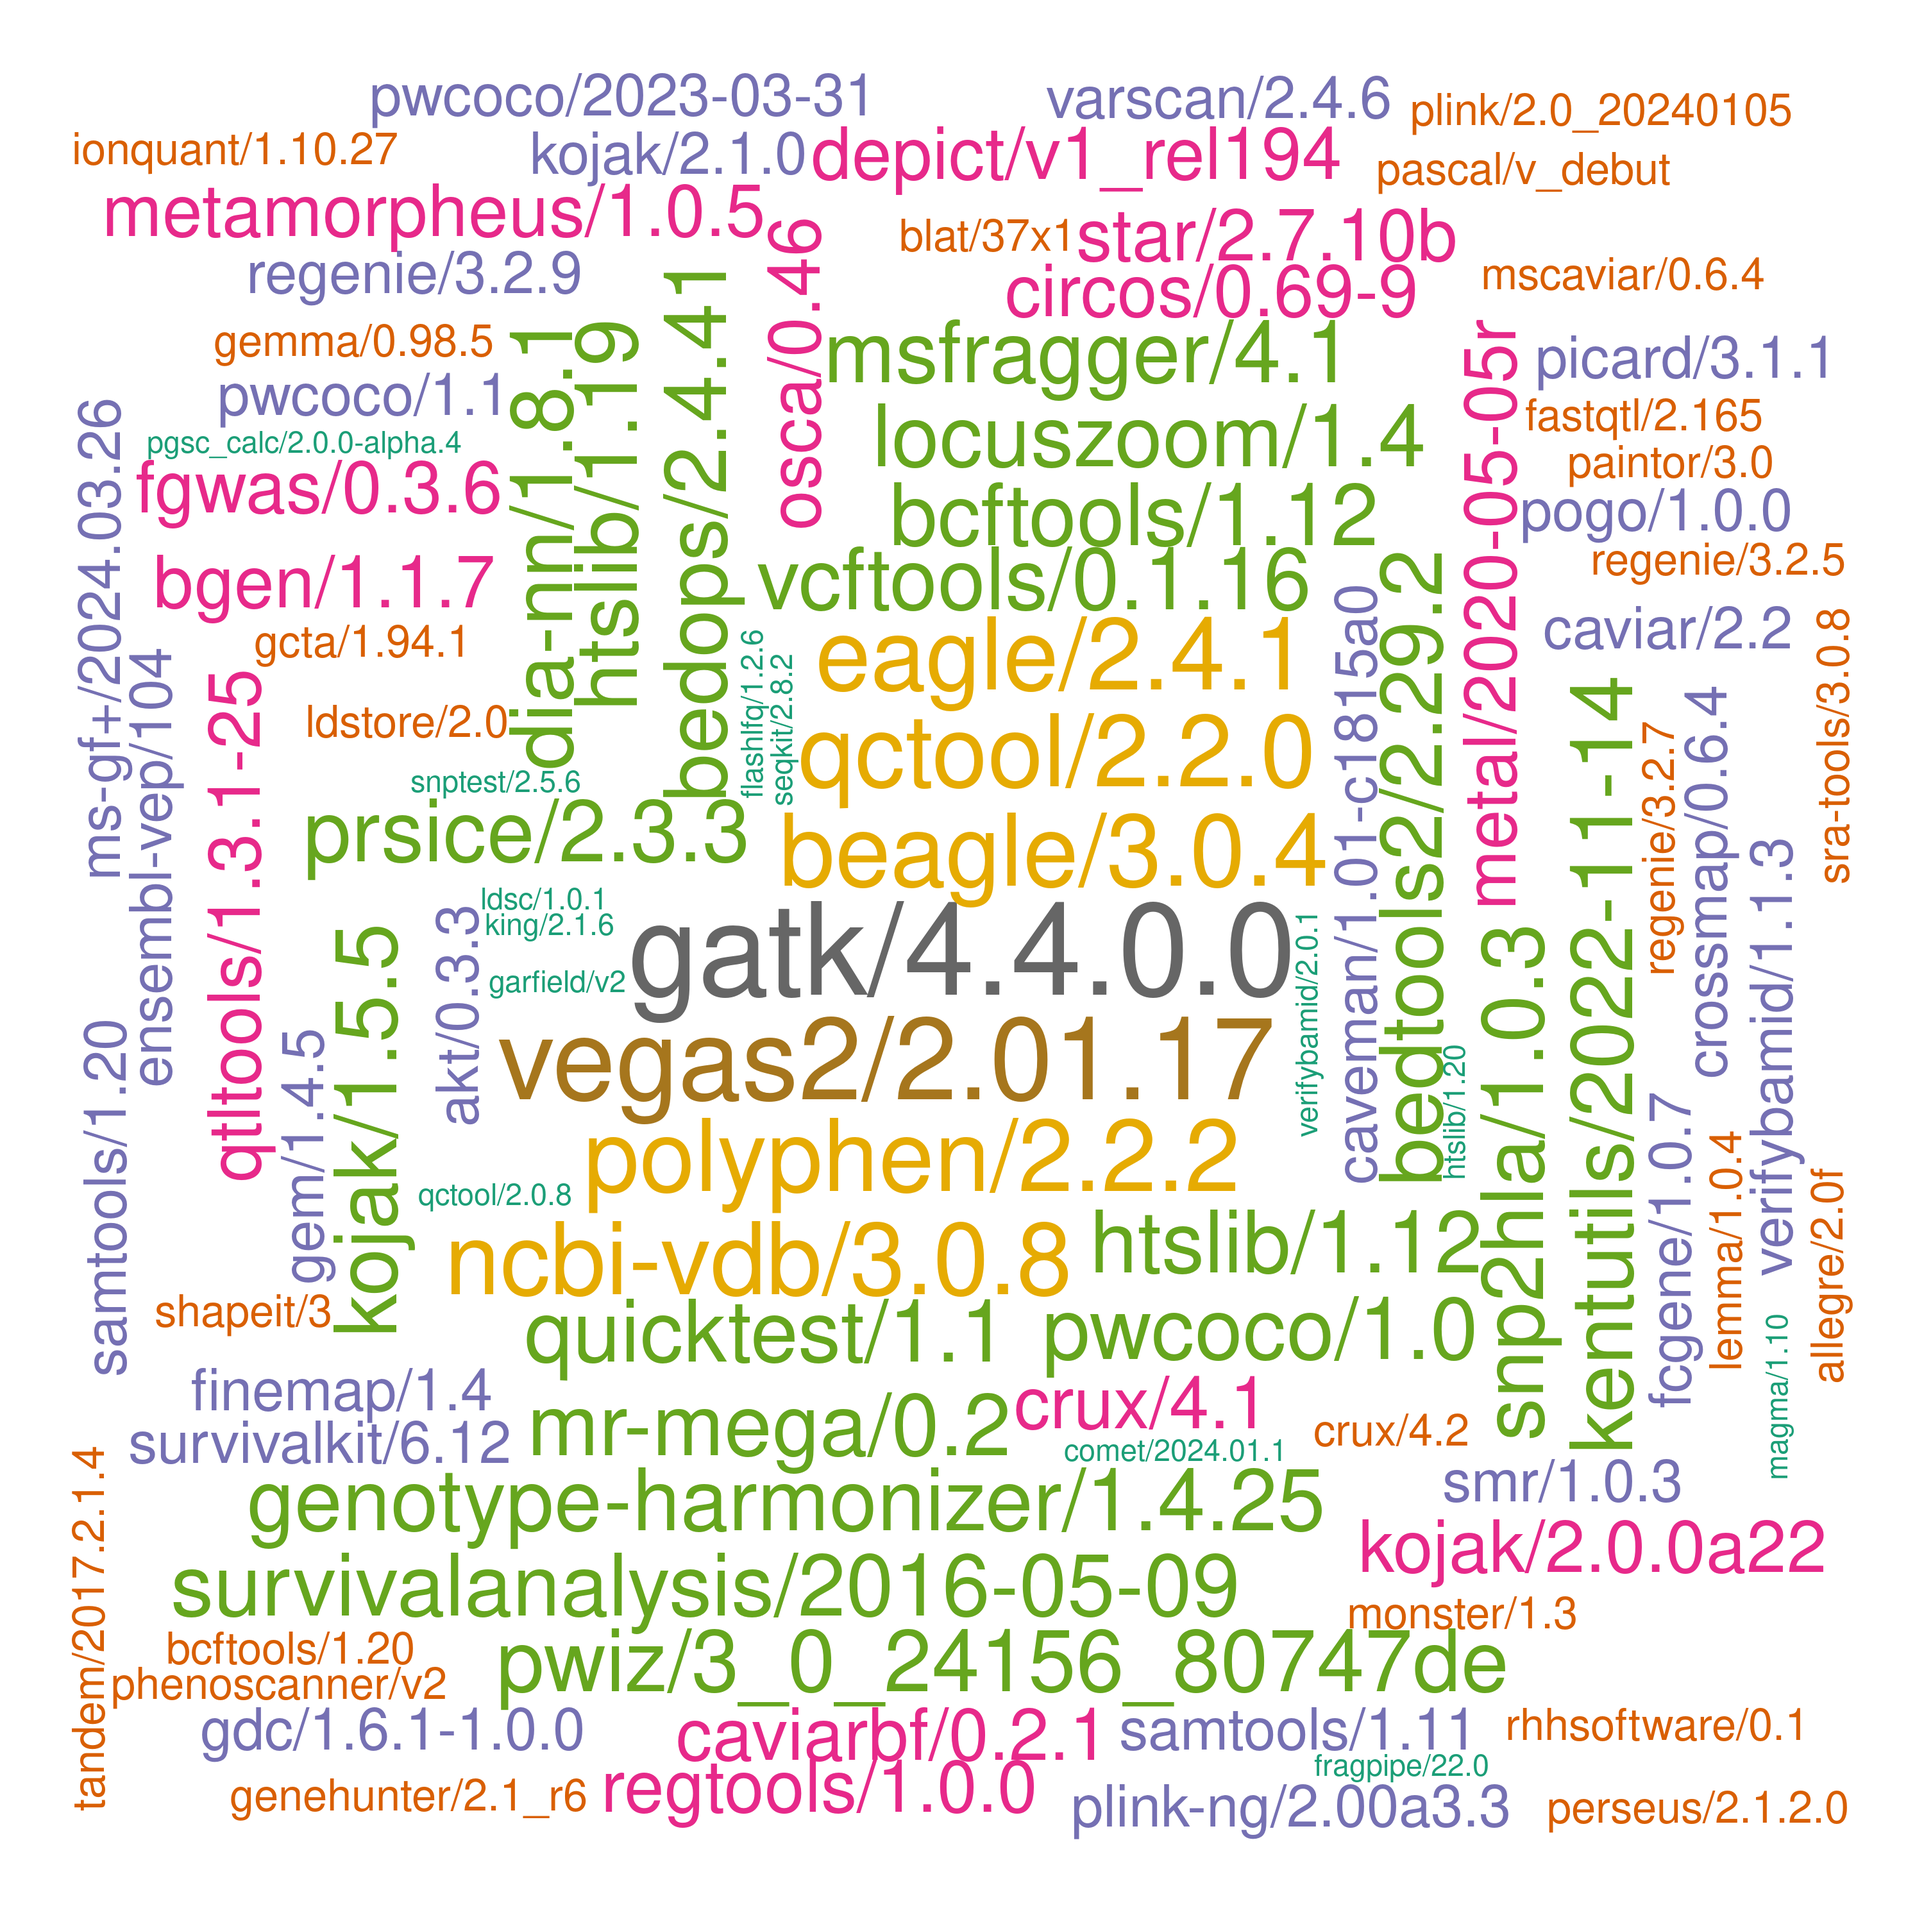
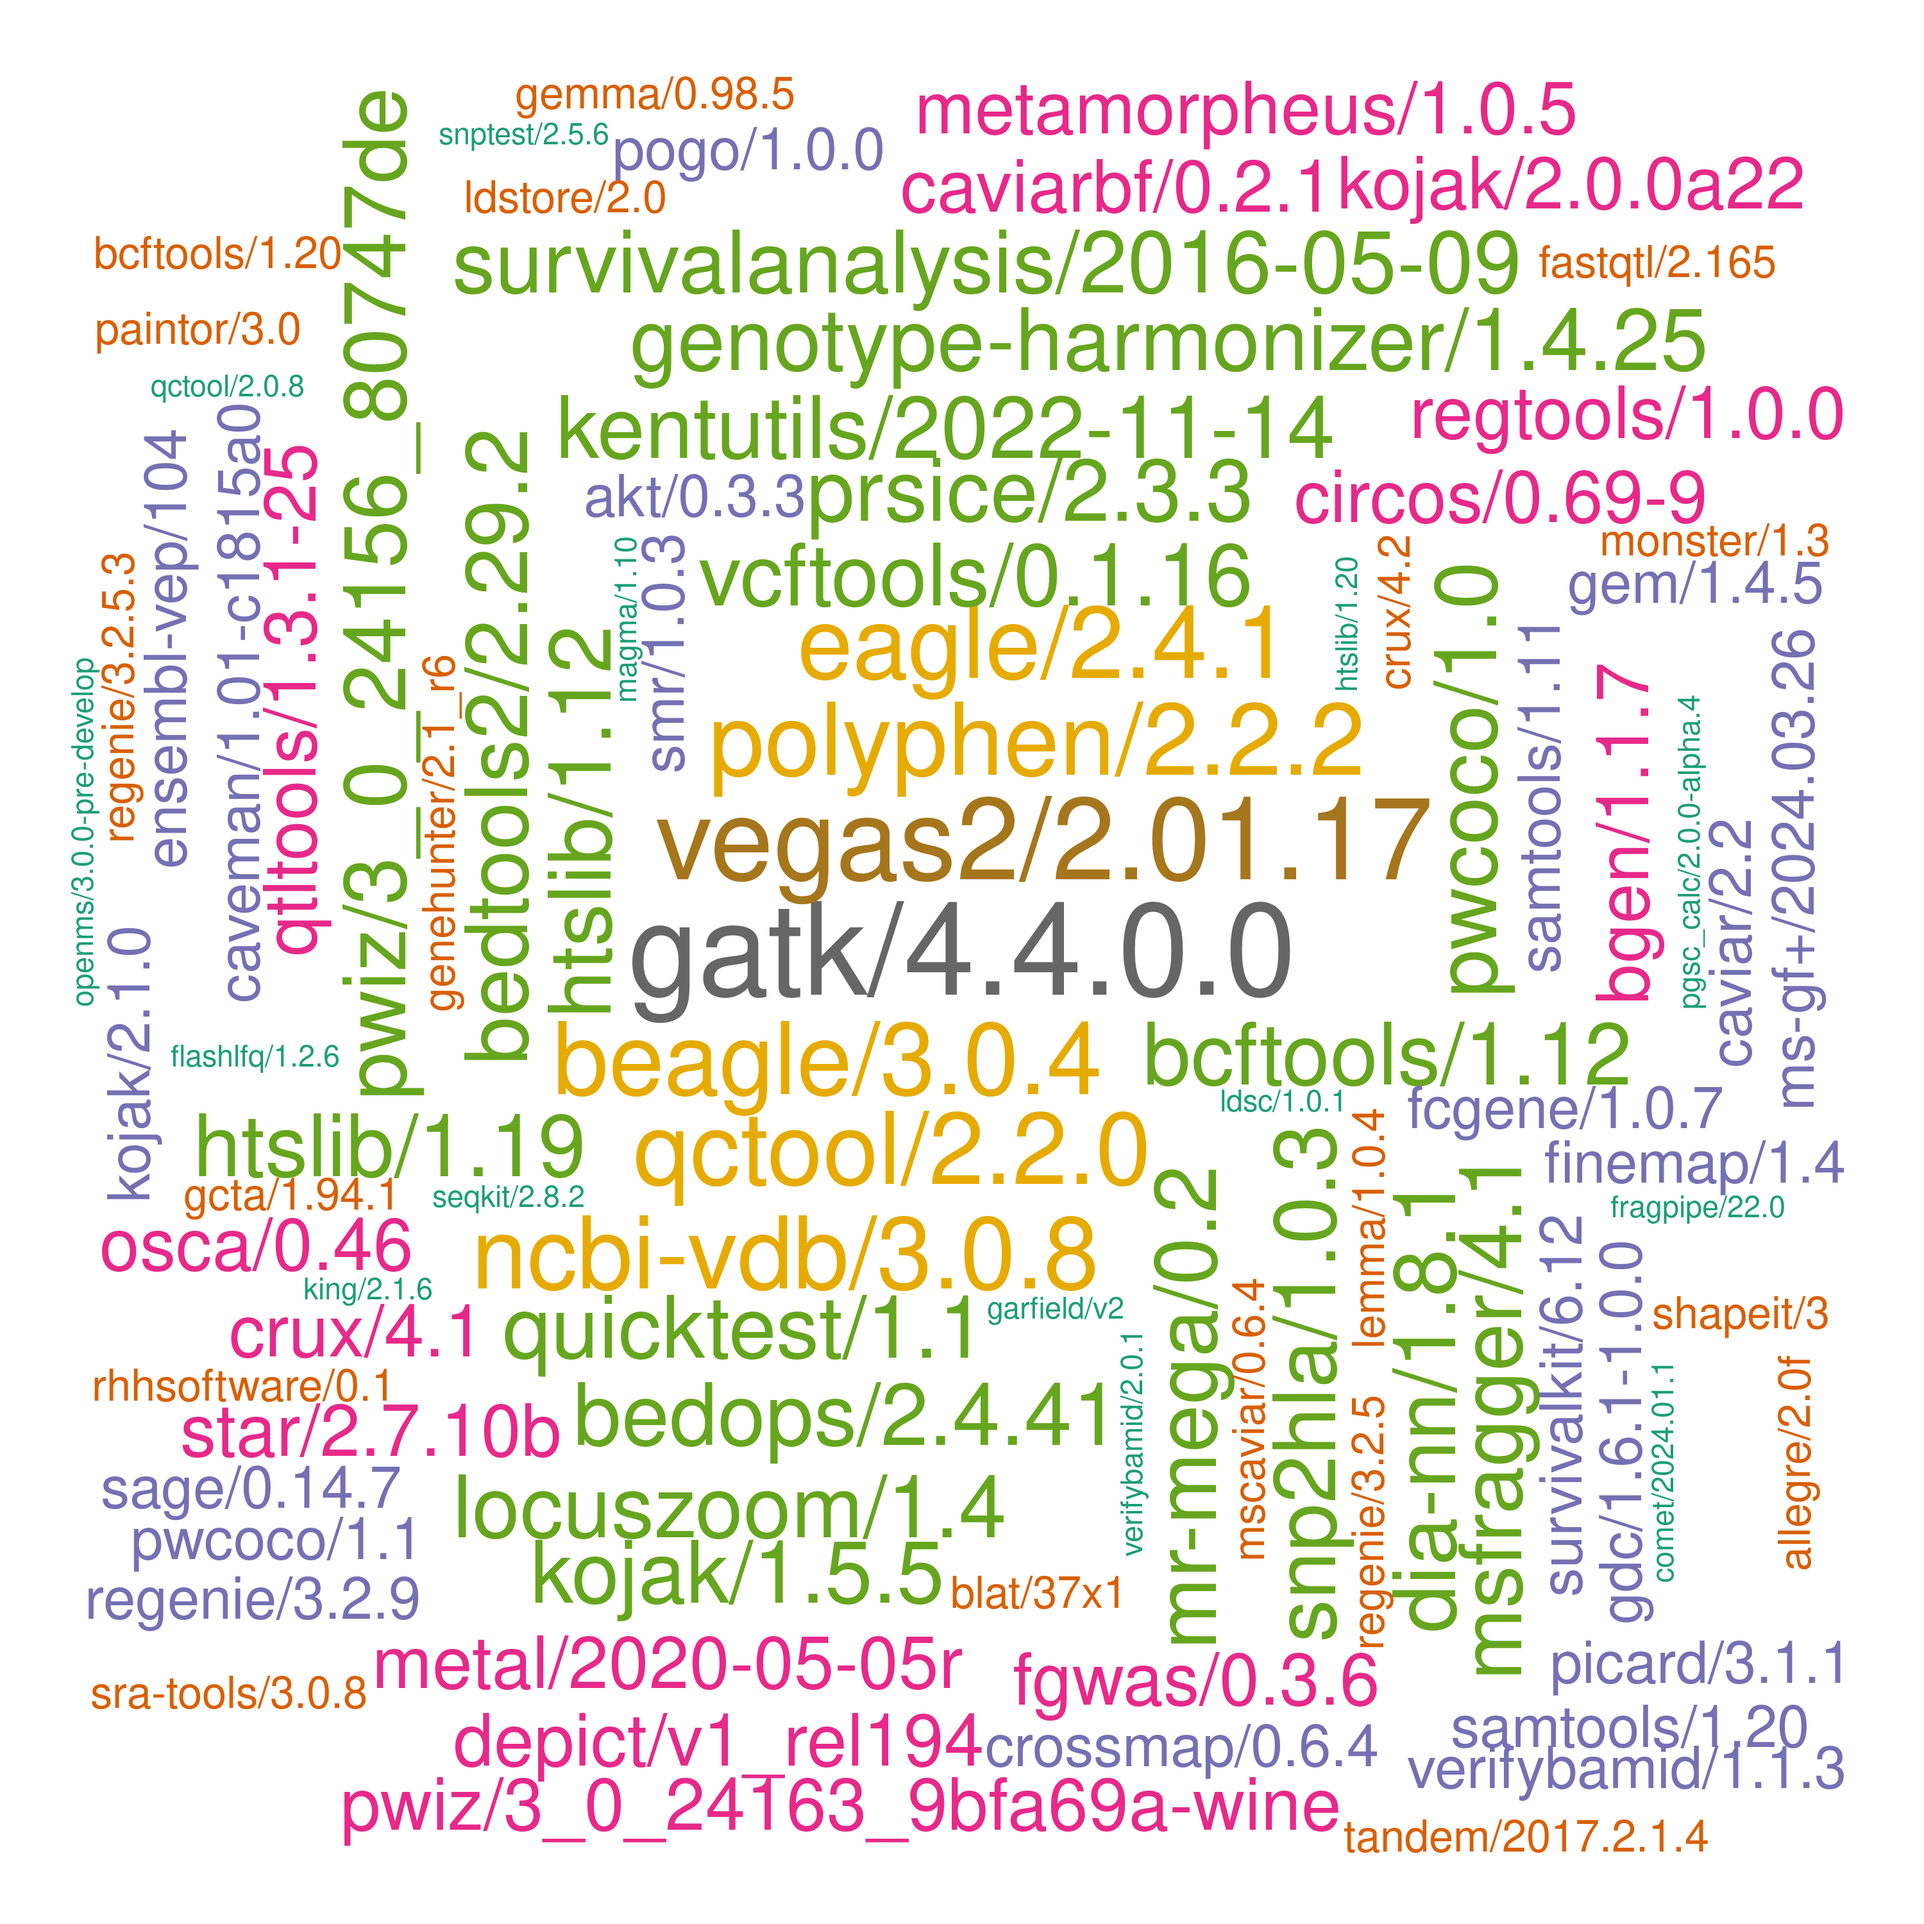
./

Changed region(s): [[0.031, 0.031, 0.961, 0.961]]

diff --git a/systems/ceuadmin.md b/systems/ceuadmin.md
@@ -73,19 +73,19 @@ The current list is as follows,
 [213] "QTLtools"               "quarto"                 "quicktest"              "R"
 [217] "raremetal"              "rclone"                 "readline"               "regenie"
 [221] "regtools"               "RHHsoftware"            "rst2pdf"                "rstudio"
-[225] "rtmpdump"               "ruby"                   "rust"                   "samtools"
-[229] "Scala"                  "seqkit"                 "shapeit"                "singularity"
-[233] "SMR"                    "snakemake"              "SNP2HLA"                "snptest"
-[237] "spread-sheet-widget"    "spyder"                 "sqlite"                 "sra-tools"
-[241] "sshpass"                "ssw"                    "STAR"                   "stata"
-[245] "SurvivalAnalysis"       "SurvivalKit"            "Swift"                  "SYMPHONY"
-[249] "tabix"                  "tandem"                 "tatami"                 "ThermoRawFileParser"
-[253] "ThermoRawFileParserGUI" "thunderbird"            "tidy"                   "tiff"
-[257] "trinculo"               "trousers"               "Typora"                 "unbound"
-[261] "vala"                   "VarScan"                "vcftools"               "VEGAS2"
-[265] "verifyBamID"            "VSCode"                 "VSCodium"               "vte"
-[269] "wine"                   "xpdf"                   "yaml-cpp"               "Zotero"
-[273] "zstd"
+[225] "rtmpdump"               "ruby"                   "rust"                   "sage"
+[229] "samtools"               "Scala"                  "seqkit"                 "shapeit"
+[233] "singularity"            "SMR"                    "snakemake"              "SNP2HLA"
+[237] "snptest"                "spread-sheet-widget"    "spyder"                 "sqlite"
+[241] "sra-tools"              "sshpass"                "ssw"                    "STAR"
+[245] "stata"                  "SurvivalAnalysis"       "SurvivalKit"            "Swift"
+[249] "SYMPHONY"               "tabix"                  "tandem"                 "tatami"
+[253] "ThermoRawFileParser"    "ThermoRawFileParserGUI" "thunderbird"            "tidy"
+[257] "tiff"                   "trinculo"               "trousers"               "Typora"
+[261] "unbound"                "vala"                   "VarScan"                "vcftools"
+[265] "VEGAS2"                 "verifyBamID"            "VSCode"                 "VSCodium"
+[269] "vte"                    "wine"                   "xpdf"                   "yaml-cpp"
+[273] "Zotero"                 "zstd"
 ```
 
 These are wrapped up as :star::star::star: **[modules](https://modules.readthedocs.io/en/latest/index.html)** :star::star::star:.
@@ -360,6 +360,8 @@ Further information is avaiiable from **/usr/local/Cluster-Apps/ceuadmin/doc/ceu
     | 2024-08-23 | qpdf/11.9.1                 | Generic             |
     | 2024-09-01 | MaxQuant/2.6.4.0            | Proteomics          |
     | ""         | Perseus/2.1.2.0             | Proteomics          |
+    | 2024-10-13 | sage/0.14.7                 | Proteomics          |
+
 
     \* CEU or approved users only.
 

diff --git a/systems/setup.md b/systems/setup.md
@@ -340,6 +340,7 @@ All entries are ordered chronologically.
 | ""          | gdal/3.7.0                       | Generic[^gdal370]    |
 | 2024-10-04  | libsodium/1.0.20                 | Genetic              |
 | ""          | SYMPHONY/3.6.17                  | Generic              |
+| 2024-10-13  | sage/0.14.7                      | Proteomics           |
 
 \* CEU or approved users only.
 
